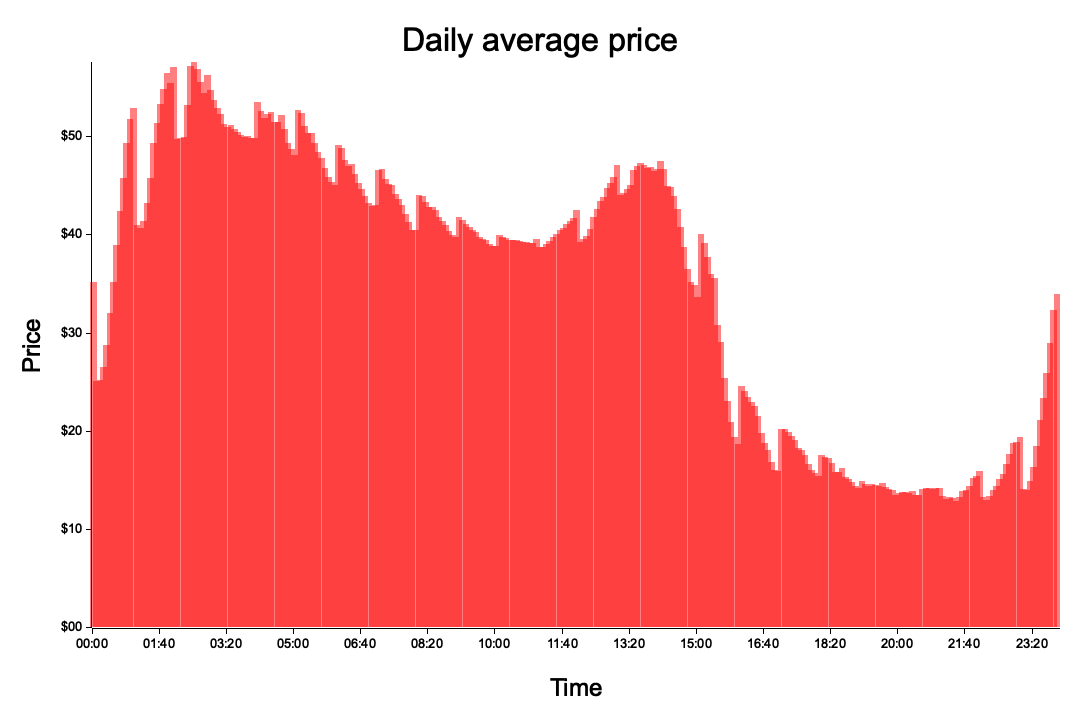
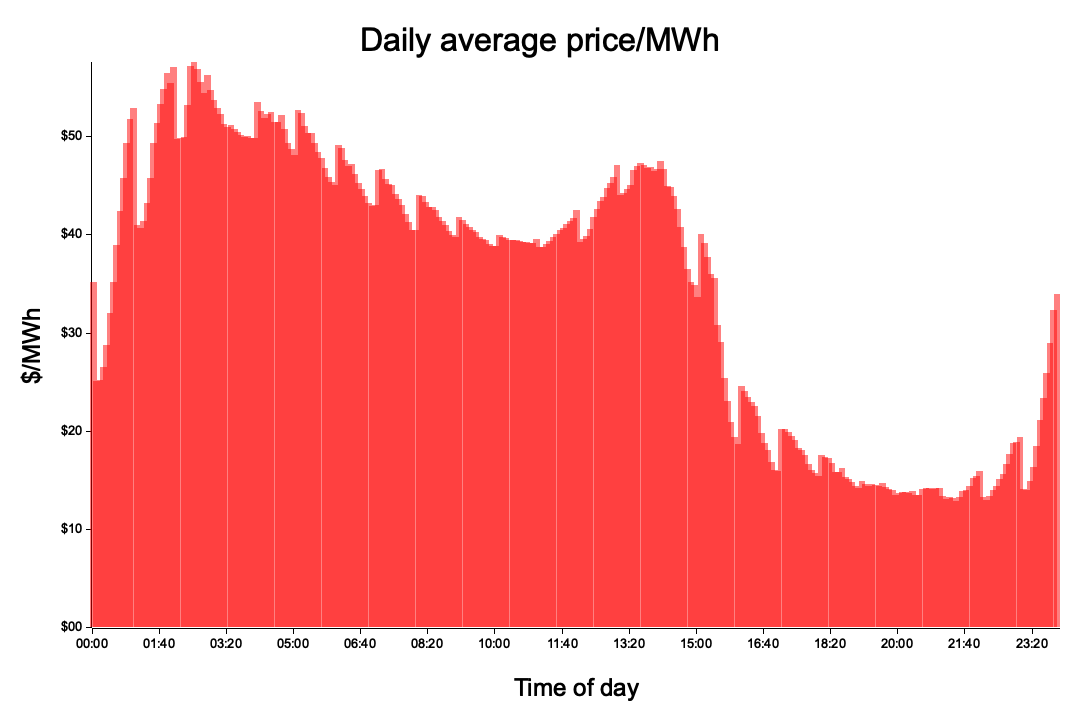
change chart labels

Changed region(s): [[0.3361, 0.0306, 0.6722, 0.0917], [0.0, 0.4278, 0.0611, 0.55], [0.4889, 0.9472, 0.6111, 0.9778]]

diff --git a/src/graph.rs b/src/graph.rs
@@ -31,7 +31,7 @@ impl<'a> Graphing<'a> {
             .x_label_area_size(72)
             .y_label_area_size(72)
             .margin(20)
-            .caption("Daily average price", ("sans-serif", 40.))
+            .caption("Daily average price/MWh", ("sans-serif", 40.))
             .build_cartesian_2d(0..(prices.len()), 0f32..max_price)?;
 
         chart
@@ -39,8 +39,8 @@ impl<'a> Graphing<'a> {
             .disable_x_mesh()
             .disable_y_mesh()
             .bold_line_style(WHITE.mix(0.3))
-            .y_desc("Price")
-            .x_desc("Time")
+            .y_desc("$/MWh")
+            .x_desc("Time of day")
             .axis_desc_style(("sans-serif", 30))
             .x_label_formatter(&|&idx| format!("{:02}:{:02}", (idx * 5) / 60, (idx * 5) % 60))
             .y_label_formatter(&|price| format!("${:02}", price))
